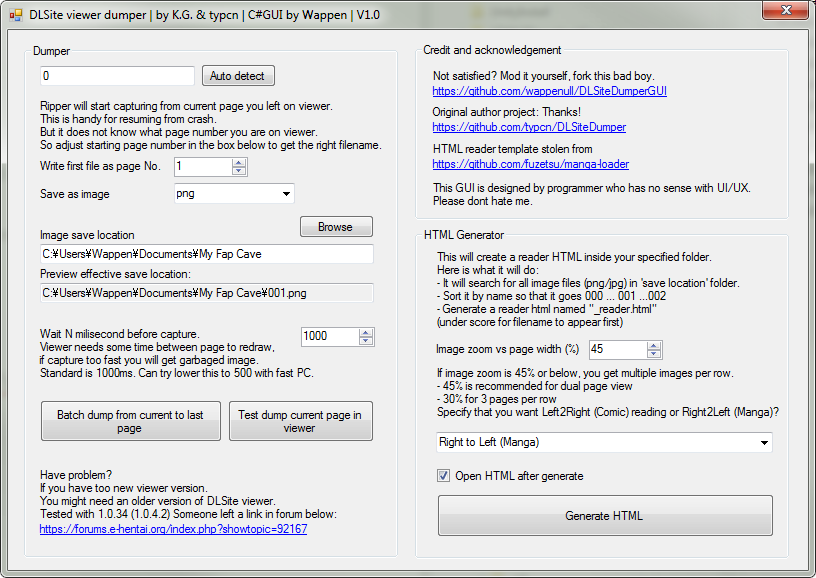
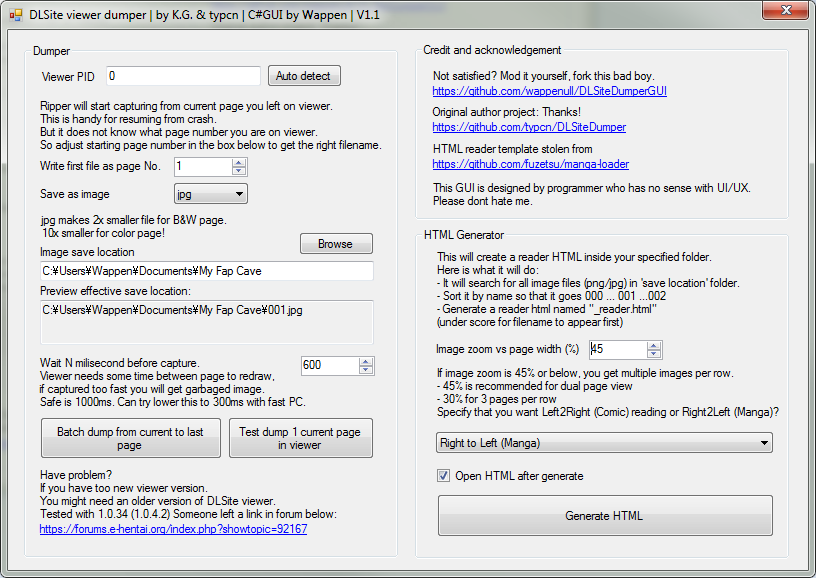
Update readme to point to 1.1 and new image

diff --git a/README.md b/README.md
@@ -24,5 +24,5 @@ Allows you to choose
 
 To use this tool you must agree that you are **legitimate buyer of DLSite content**. And only use this for your **personal viewing purpose**, in your own fap cave. Do not share the pirated content or your fap cave will burn down!
 
-# [Download EXE](https://github.com/wappenull/DLSiteDumperGUI/releases/download/v1.0/DLSiteDumperCS.exe)
-https://github.com/wappenull/DLSiteDumperGUI/releases/download/v1.0/DLSiteDumperCS.exe
+# [Download EXE](https://github.com/wappenull/DLSiteDumperGUI/releases/download/v1.1/DLSiteDumperCS.exe)
+Now V1.1.
